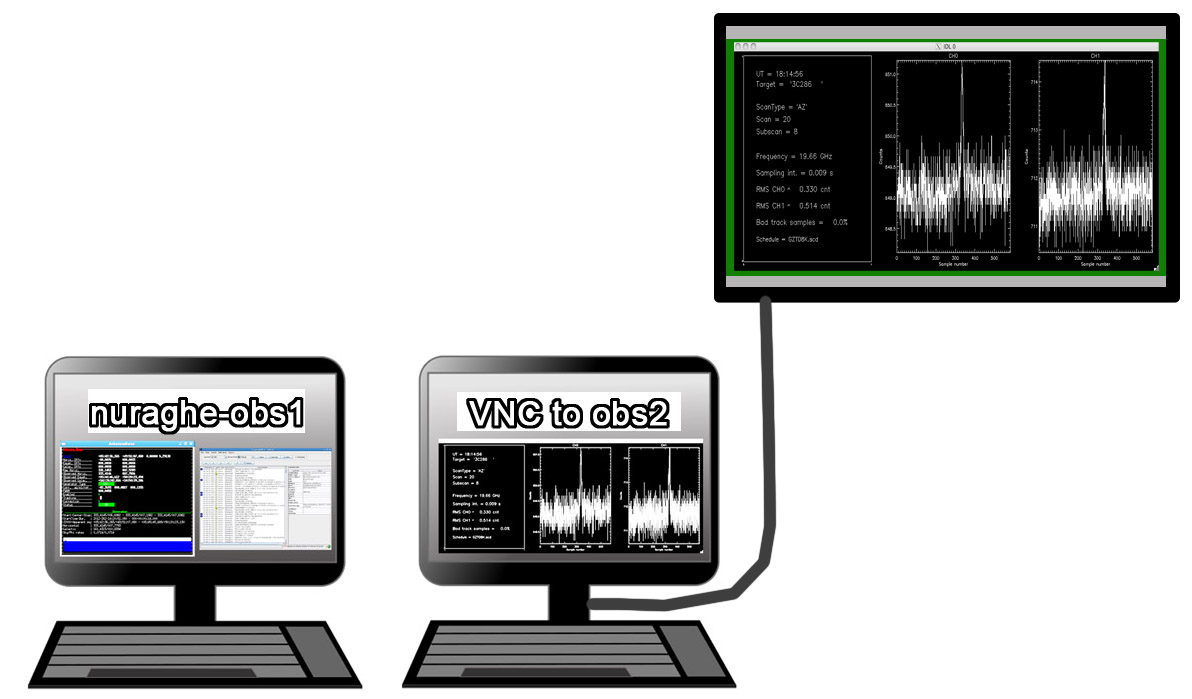
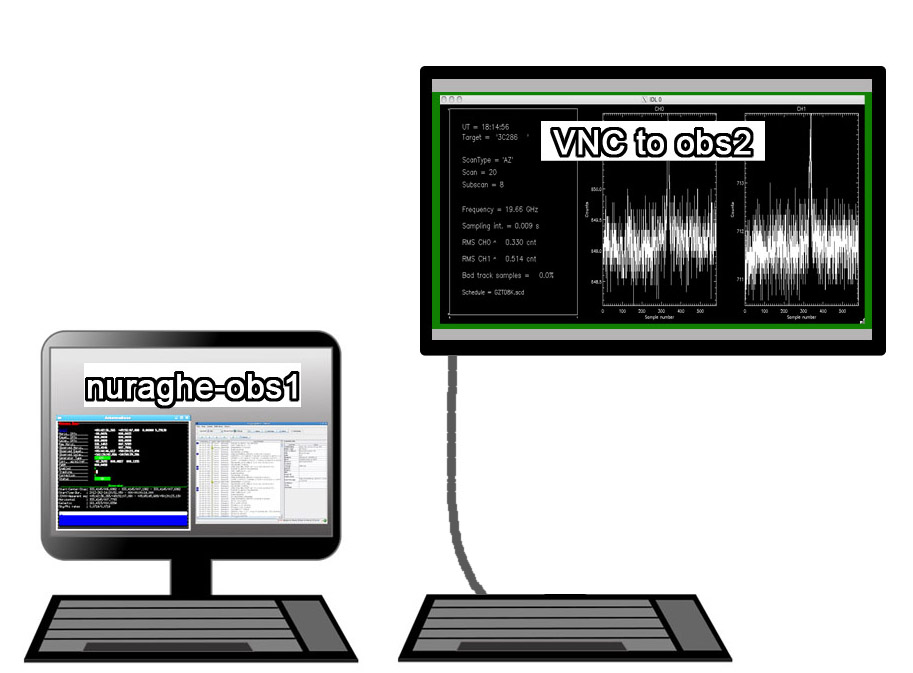
Update on startup machines

diff --git a/user/srt/source/Startup.rst b/user/srt/source/Startup.rst
@@ -18,15 +18,18 @@ You can login with::
 
     username: observer       pwd:  **********
 
-Data inspection ad pre-reduction is allowed on a Windows machine, located on 
-the right of OBS1 and connected to a very large display fixed on the wall.  
-If this machine is shut down, or if exiting from the screensaver asks for a 
-login, use:: 
 
-    username: oper           pwd:  **********
+Data inspection ad pre-reduction can be accessed through a Linux machine, named
+nuraghe-obs3, located on the right of OBS1 and connected to a very large
+display fixed on the wall.
+If this machine is shut down, or if exiting from the screensaver asks for
+a login, use::
 
-On the desktop you’ll find a **VNC icon** providing connection to the remote 
-desktop of **nuraghe-obs2** (op)::    
+    username: observer       pwd:  **********
+
+On the desktop youll find a VNC icon providing connection to the remote
+desktop of **nuraghe-obs2** (op), where data inspection and pre-reduction
+tools are present::    
 
     login: [projectcode]     pwd: **********
 
